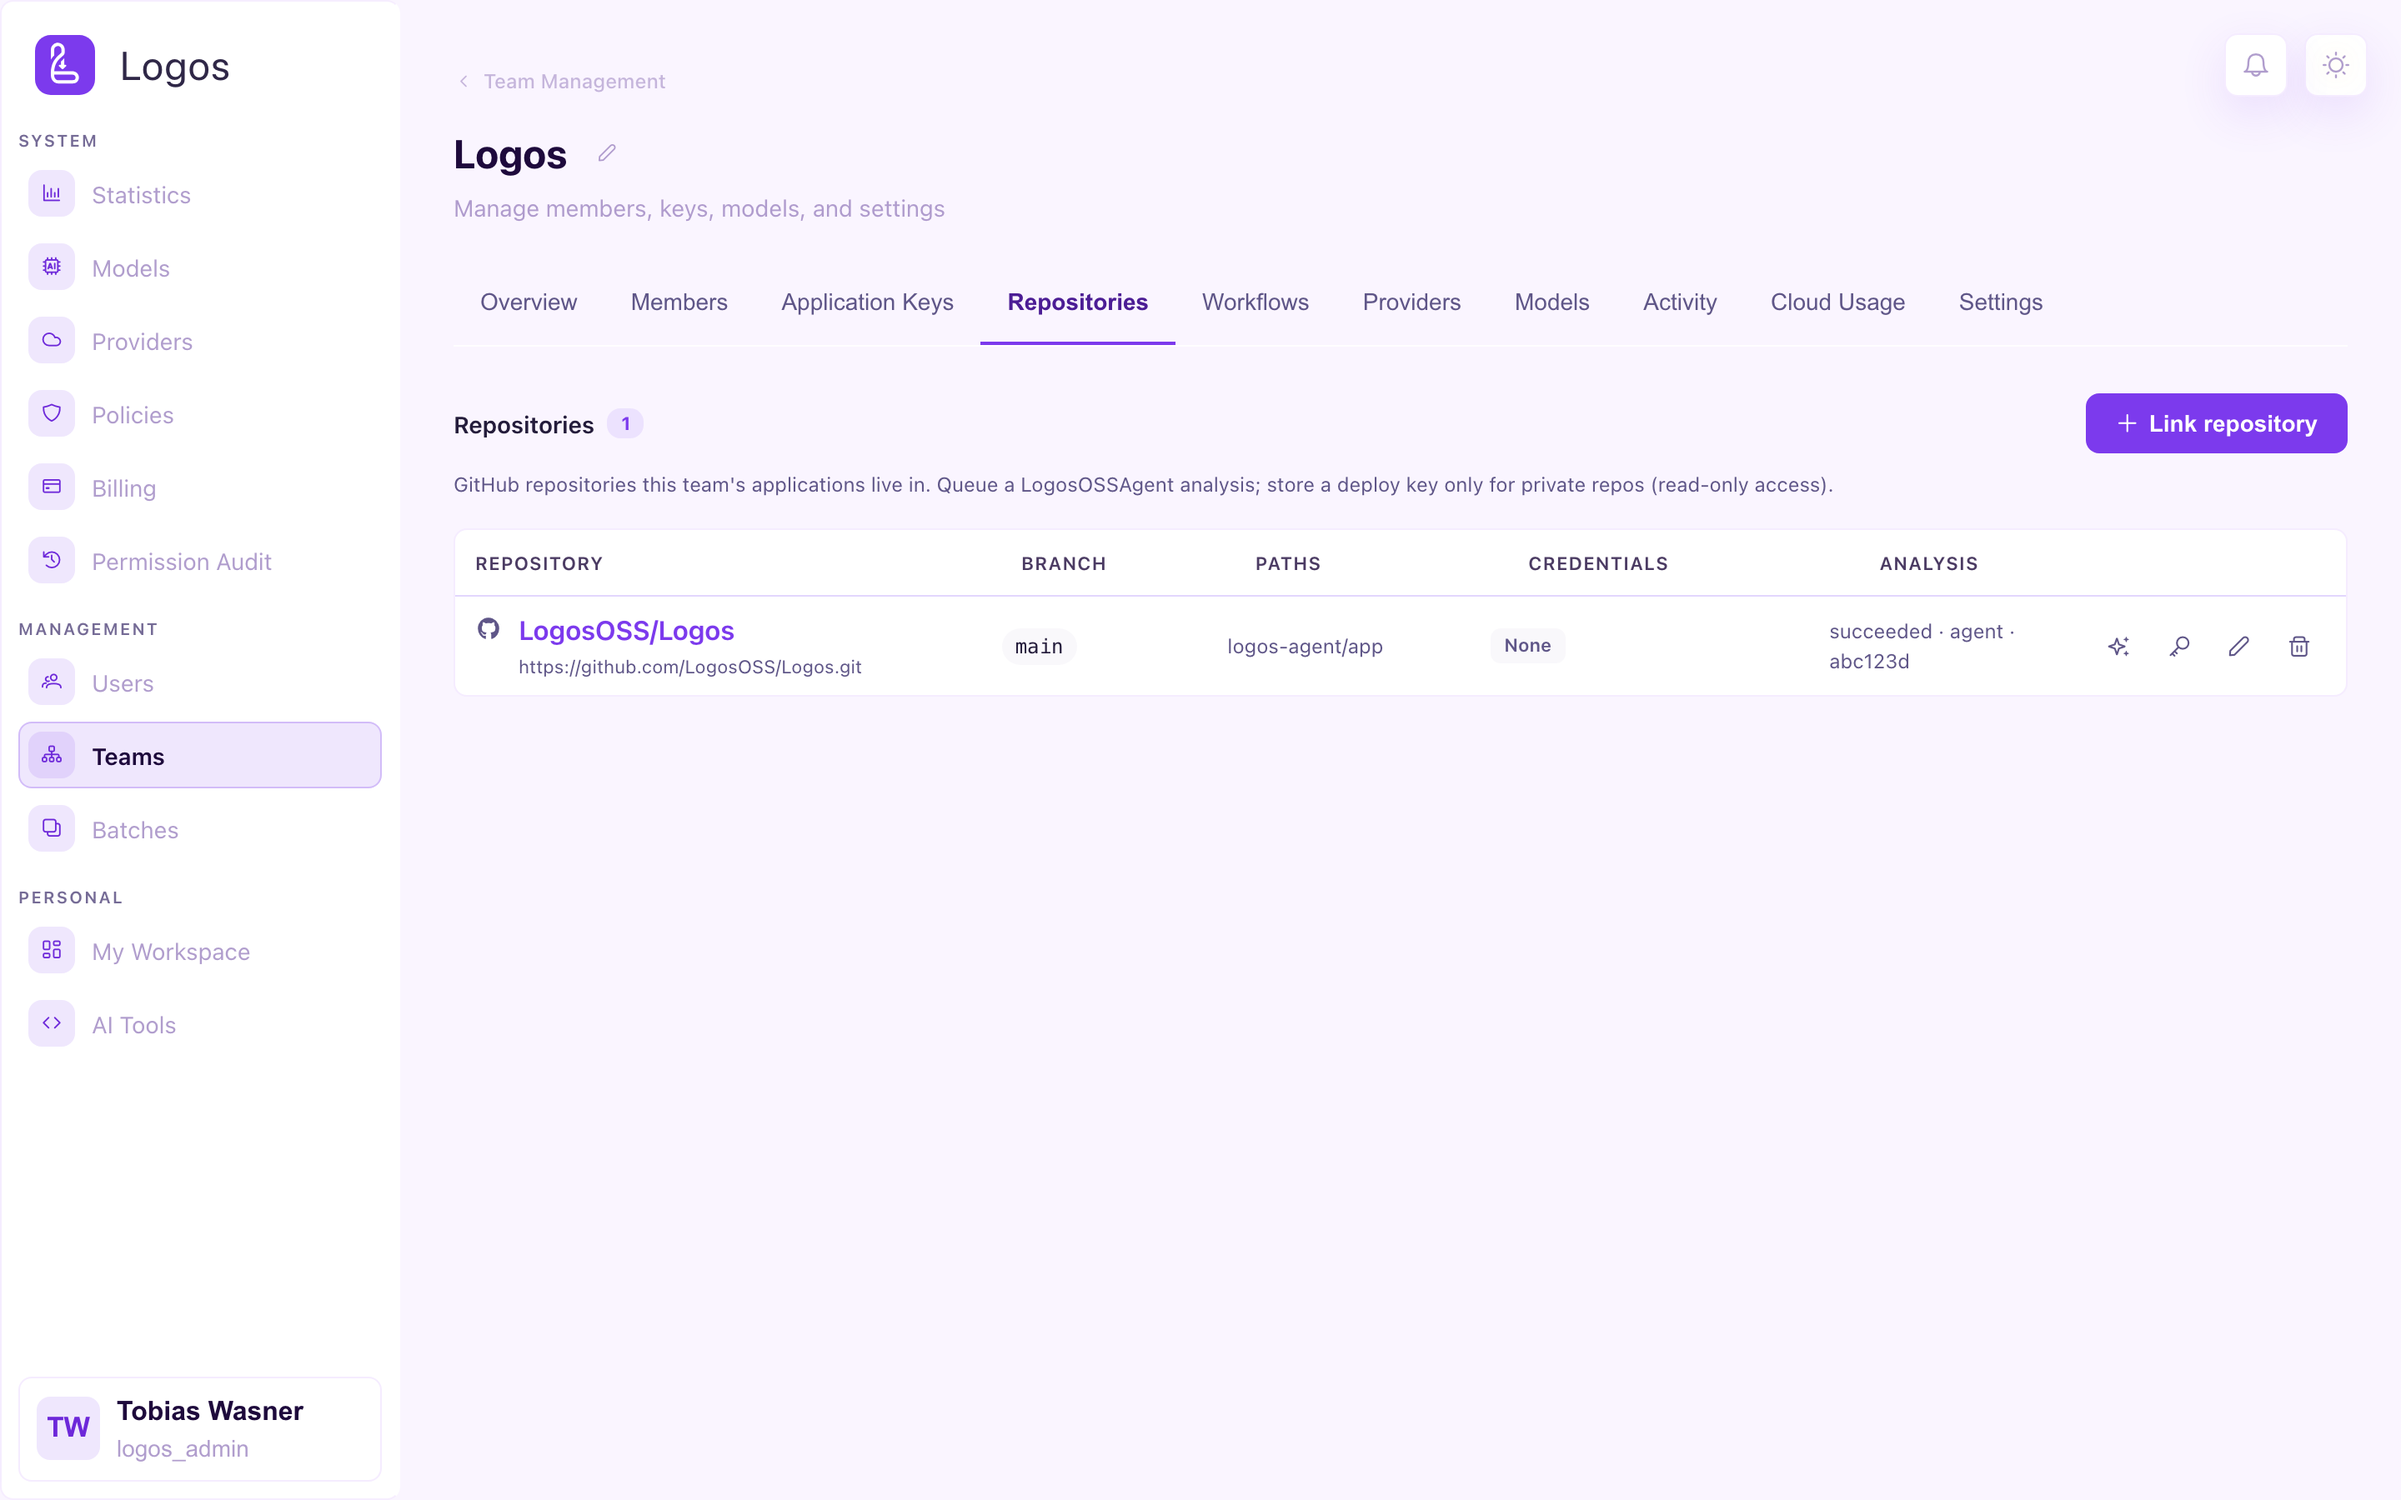
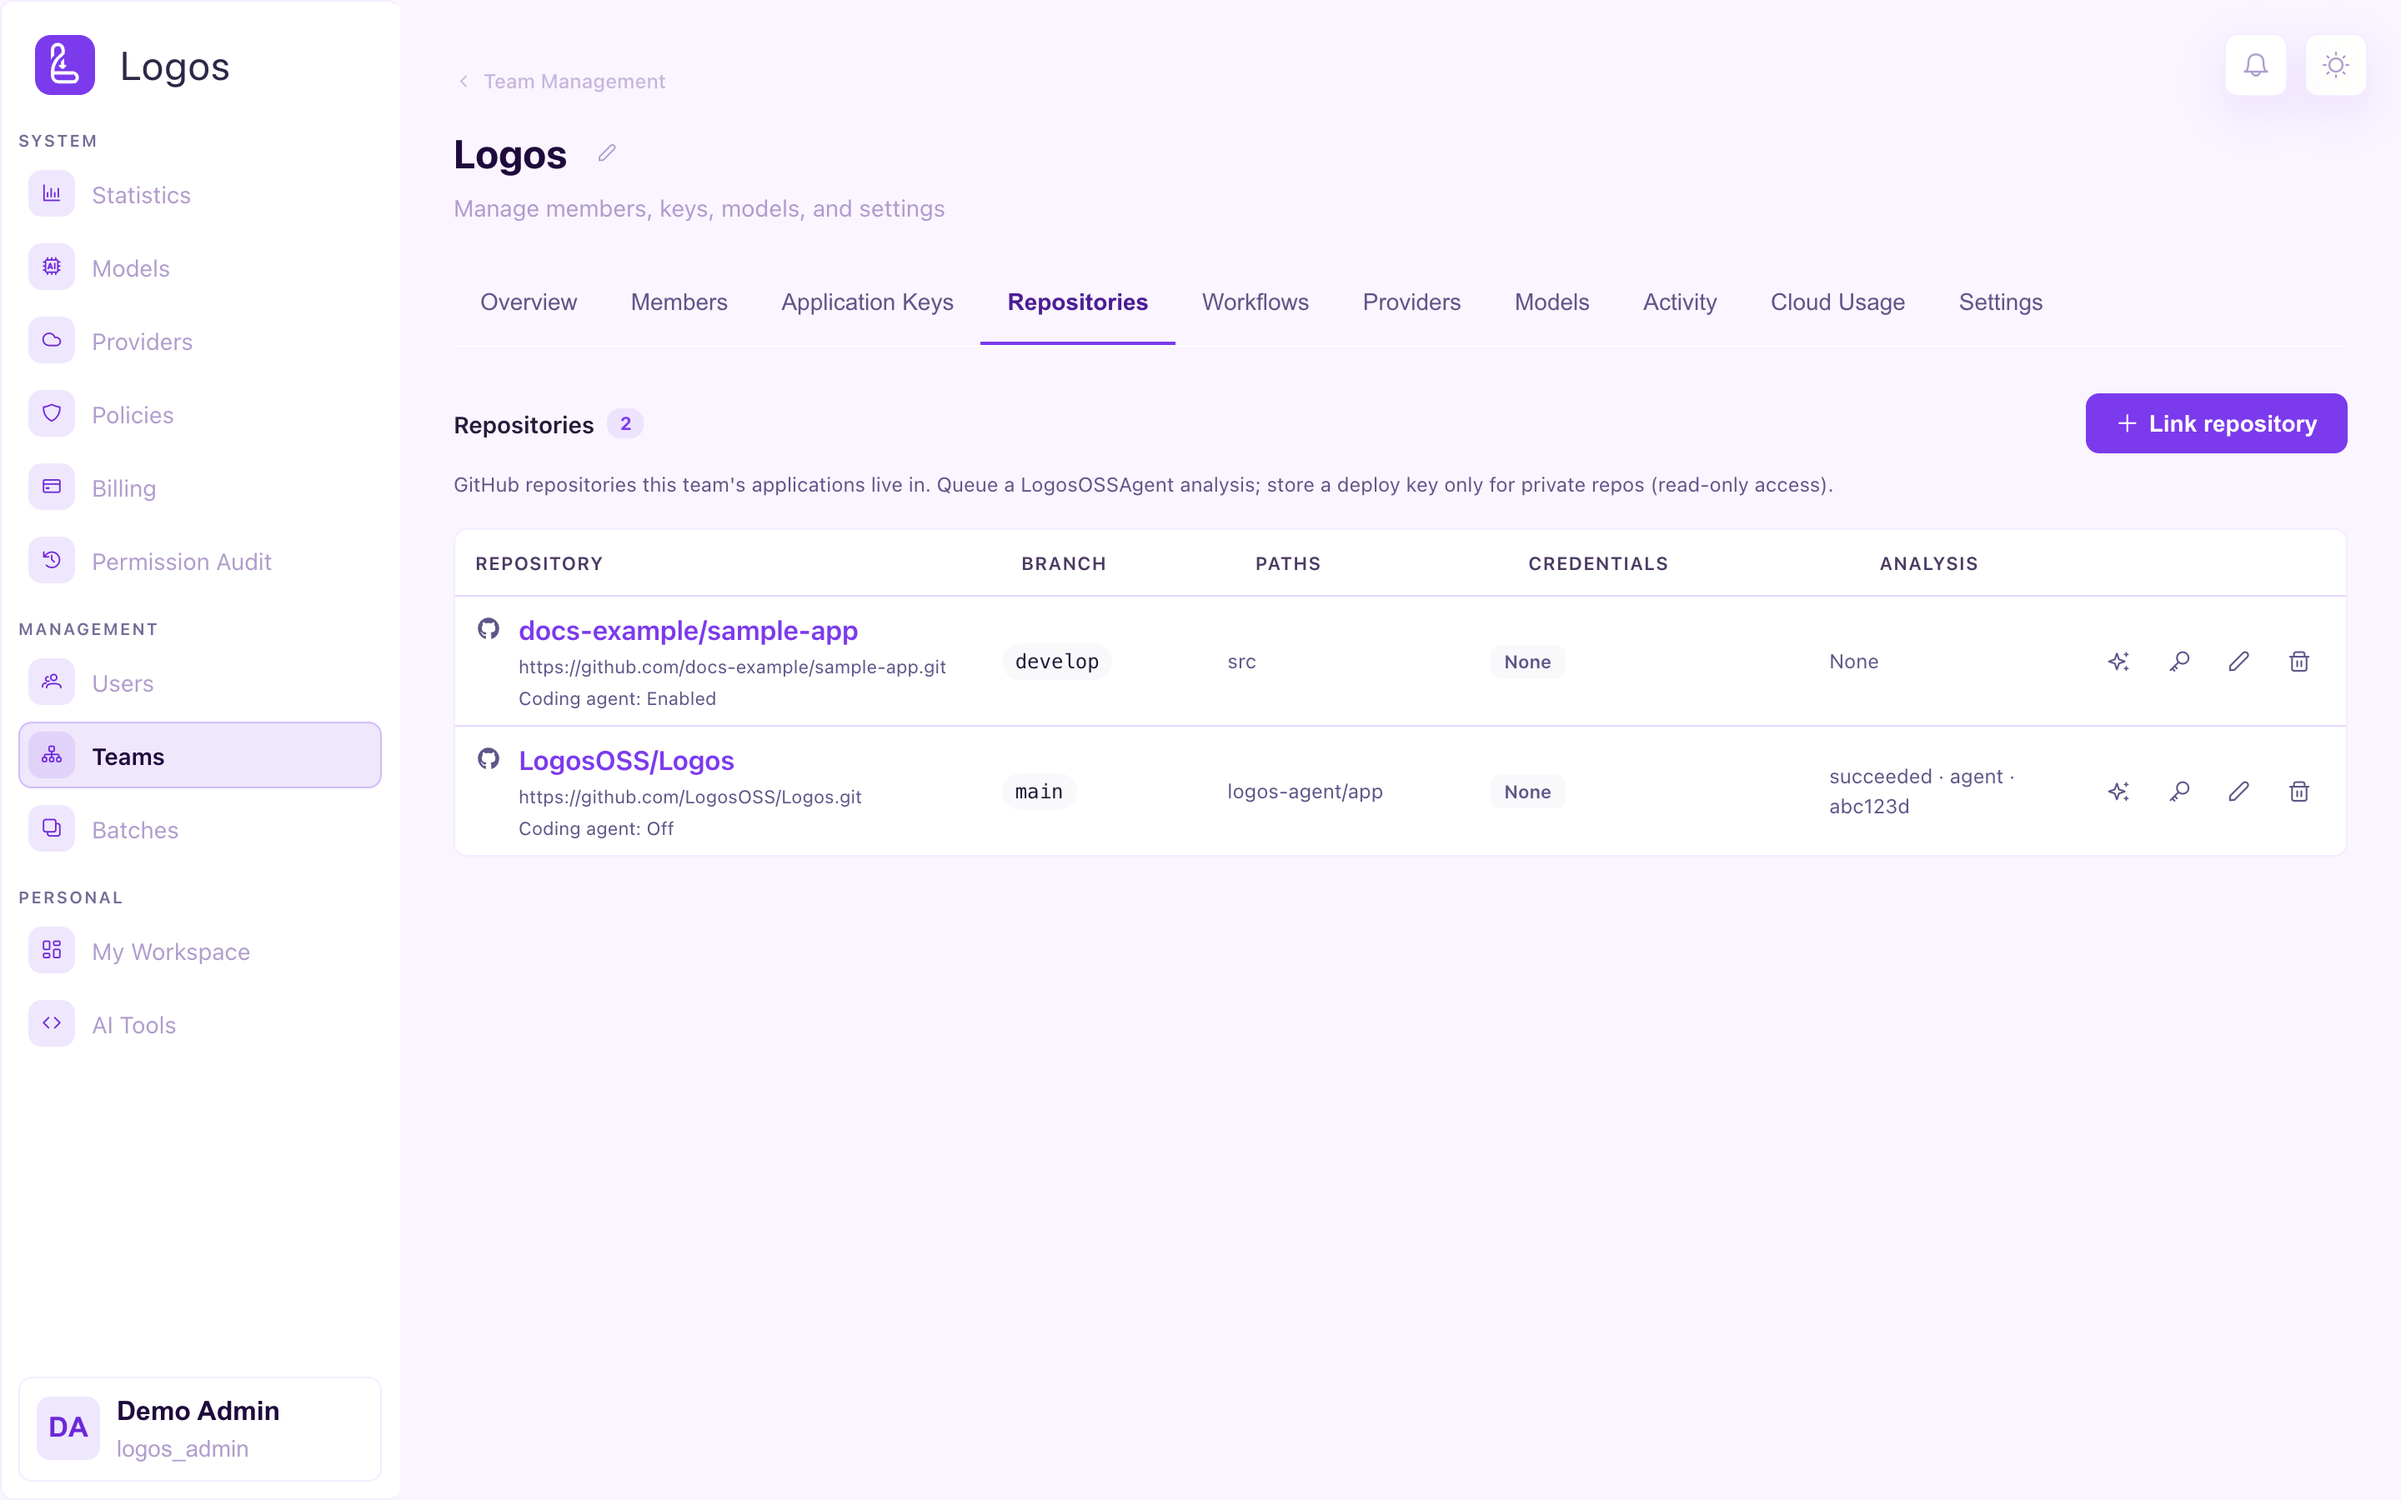
Fix agent formatting and document linked repository setup

diff --git a/logos-agent/app/db.py b/logos-agent/app/db.py
@@ -417,14 +417,10 @@ async def get_workspace(workspace_id: int) -> dict[str, Any] | None:
 async def enabled_coding_repositories() -> list[dict[str, Any]]:
     """Linked repositories whose teams opted into coding work."""
     async with sessionmaker()() as db:
-        rows = (
-            await db.execute(
-                text("""
+        rows = (await db.execute(text("""
             SELECT id, repo_url, repo_slug, branch, agent_instructions, verification_command
               FROM team_repositories WHERE agent_enabled = TRUE ORDER BY id
-        """)
-            )
-        ).mappings()
+        """))).mappings()
         return [dict(row) for row in rows]
 
 
@@ -1398,9 +1394,7 @@ async def sessions_awaiting_checks() -> list[dict[str, Any]]:
     and almost always empty.
     """
     async with sessionmaker()() as db:
-        rows = (
-            await db.execute(
-                text("""
+        rows = (await db.execute(text("""
                     SELECT id, workspace_id, task, model, branch_name, checks_sha,
                            trigger_kind, trigger_ref, reply_target, reaction_target,
                            priority, priority_reason, open_pull_request, finished_at,
@@ -1408,9 +1402,7 @@ async def sessions_awaiting_checks() -> list[dict[str, Any]]:
                       FROM agent_sessions
                      WHERE checks_watch = 'pending'
                      ORDER BY id
-                    """)
-            )
-        ).mappings()
+                    """))).mappings()
         return [dict(row) for row in rows]
 
 

diff --git a/docs/roles/app-admin.md b/docs/roles/app-admin.md
@@ -107,6 +107,35 @@ commits. It does not analyze a repository that has no change.
 
 ![Team detail — Repositories](/img/roles/team-detail-repositories.png)
 
+#### Enable the coding agent
+
+Repository analysis uses read-only access. The coding agent can also change
+files and create pull requests after a repository owner requests work on GitHub.
+
+1. Give the configured agent account access to the repository on GitHub.
+2. Select **Edit repository link** for the repository.
+3. Select **Enable LogosOSSAgent for this repository**.
+4. Enter the **Build and test command** that the agent must run from the repository root.
+5. Optionally enter **Repository instructions** for the tools and conventions of the project.
+6. Select **Save**.
+
+![Team detail — Repository coding agent settings](/img/roles/team-detail-repository-agent.png)
+
+The **Branch** is the base for new issue work. The command runs without
+credentials or internet access. The required tools and dependencies must exist
+in the agent image. A failed command permits only a draft pull request.
+
+Assign an issue or pull request to the agent on GitHub to request work.
+You can also request a review or mention the agent in a comment.
+The agent checks enabled repositories every 2 minutes. Analysis deploy keys
+remain read-only and do not give the coding agent access.
+
+The list shows **Coding agent: Enabled** when the option is active.
+Clear the option and select **Save** to stop new requests.
+Queued work and retries keep their saved repository and command.
+If several teams enable the same repository, the oldest enabled link supplies
+the settings. Linked repositories do not use Logos deployment workflows.
+
 ### Workflows
 
 This tab shows the latest AI-workflow analyses for the linked repositories of

diff --git a/docs/AGENTS.md b/docs/AGENTS.md
@@ -339,6 +339,7 @@ flows use a **concept** name (no role prefix); role-only list pages keep the
 | `team-detail-members.png` | same | `/teams/<id>` — **Members** | same |
 | `team-detail-application-keys.png` | owner or `logos_admin` | `/teams/<id>` — **Application Keys** | same |
 | `team-detail-repositories.png` | owner or `logos_admin` | `/teams/<id>` — **Repositories** | same |
+| `team-detail-repository-agent.png` | same | `/teams/<id>` — **Repositories → Edit**, coding agent enabled | `roles/app-admin.md#enable-the-coding-agent` |
 | `team-detail-workflows.png` | owner or `logos_admin` | `/teams/<id>` — **Workflows** | same |
 | `team-detail-models.png` | owner or `logos_admin` | `/teams/<id>` — **Models** | same |
 | `team-detail-activity.png` | owner or `logos_admin` | `/teams/<id>` — **Activity** | same |
